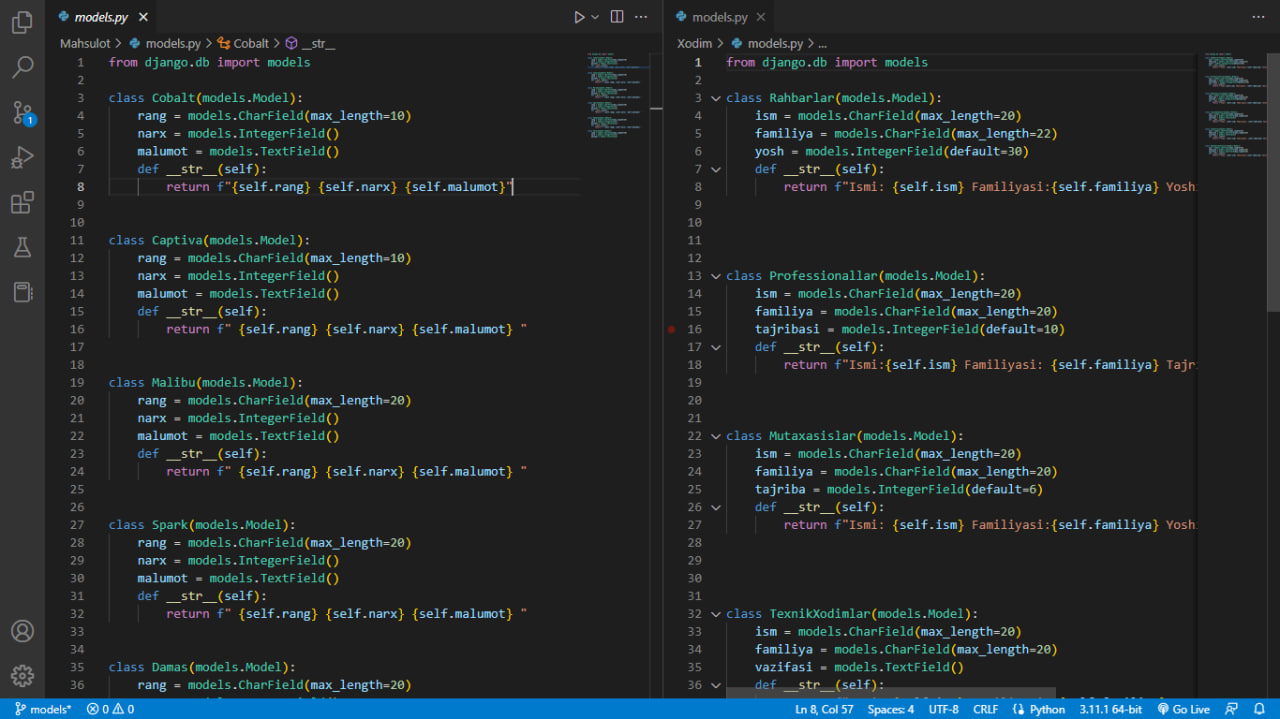
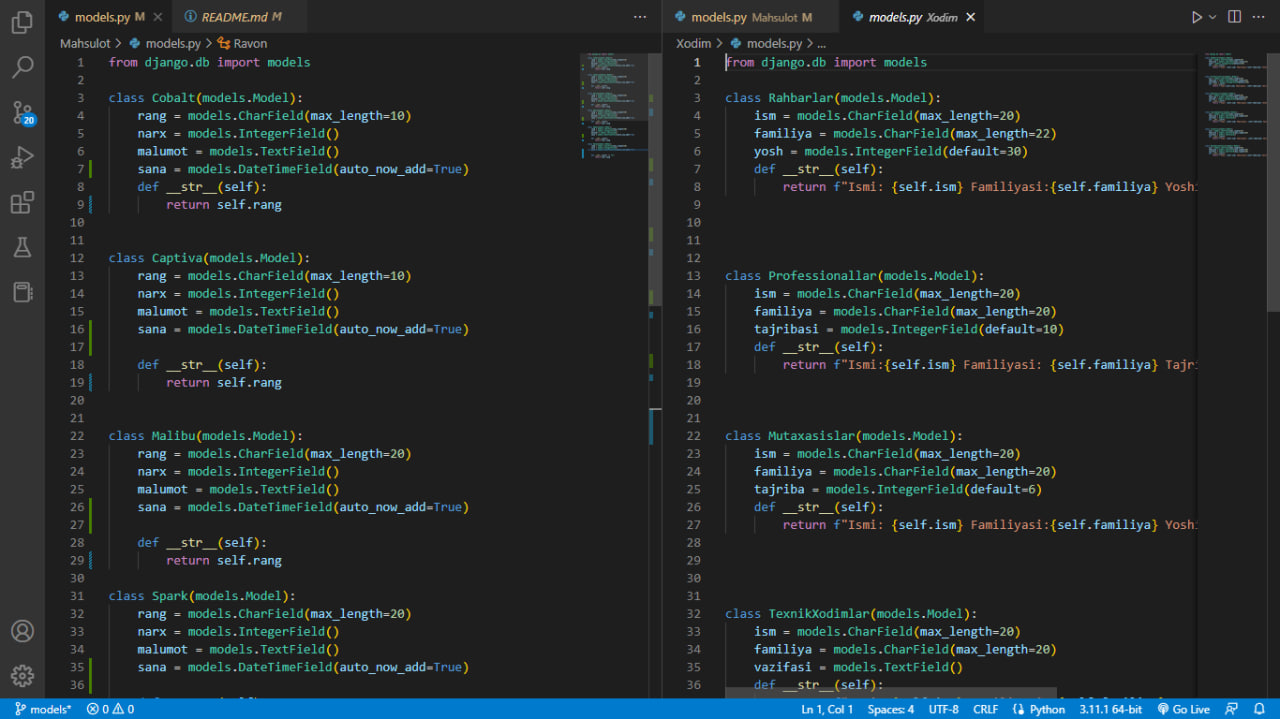
models.

diff --git a/Mahsulot/models.py b/Mahsulot/models.py
@@ -4,42 +4,53 @@ class Cobalt(models.Model):
     rang = models.CharField(max_length=10)
     narx = models.IntegerField()
     malumot = models.TextField()
+    sana = models.DateTimeField(auto_now_add=True)
     def __str__(self):
-        return f"{self.rang} {self.narx} {self.malumot}"
+        return self.rang
 
 
 class Captiva(models.Model):
     rang = models.CharField(max_length=10)
     narx = models.IntegerField()
     malumot = models.TextField()
+    sana = models.DateTimeField(auto_now_add=True)
+
     def __str__(self):
-        return f" {self.rang} {self.narx} {self.malumot} "
+        return self.rang
 
 
 class Malibu(models.Model):
     rang = models.CharField(max_length=20)
     narx = models.IntegerField()
     malumot = models.TextField()
-    def __str__(self):
-        return f" {self.rang} {self.narx} {self.malumot} "
+    sana = models.DateTimeField(auto_now_add=True)
 
+    def __str__(self):
+        return self.rang
 
 class Spark(models.Model):
     rang = models.CharField(max_length=20)
     narx = models.IntegerField()
     malumot = models.TextField()
-    def __str__(self):
-        return f" {self.rang} {self.narx} {self.malumot} "
+    sana = models.DateTimeField(auto_now_add=True)
 
+    def __str__(self):
+        return self.rang
 
 class Damas(models.Model):
     rang = models.CharField(max_length=20)
     narx = models.IntegerField()
     malumot = models.TextField()
+    sana = models.DateTimeField(auto_now_add=True)
+
     def __str__(self):
-        return f" {self.rang} {self.narx} {self.malumot} "
+        return self.rang
 
 class Ravon(models.Model):
     rang = models.CharField(max_length=20)
     narx = models.IntegerField()
-    malumot = models.TextField()
+    sana = models.DateTimeField(auto_now_add=True)
+
+
+    def __str__(self) -> str:
+        return self.rang

diff --git a/README.md b/README.md
@@ -1,2 +1,2 @@
-### Models  cars and human occupations
+### models  CharField, IntegerField, TextField, DateTimeField
 <img src="model.jpg">
